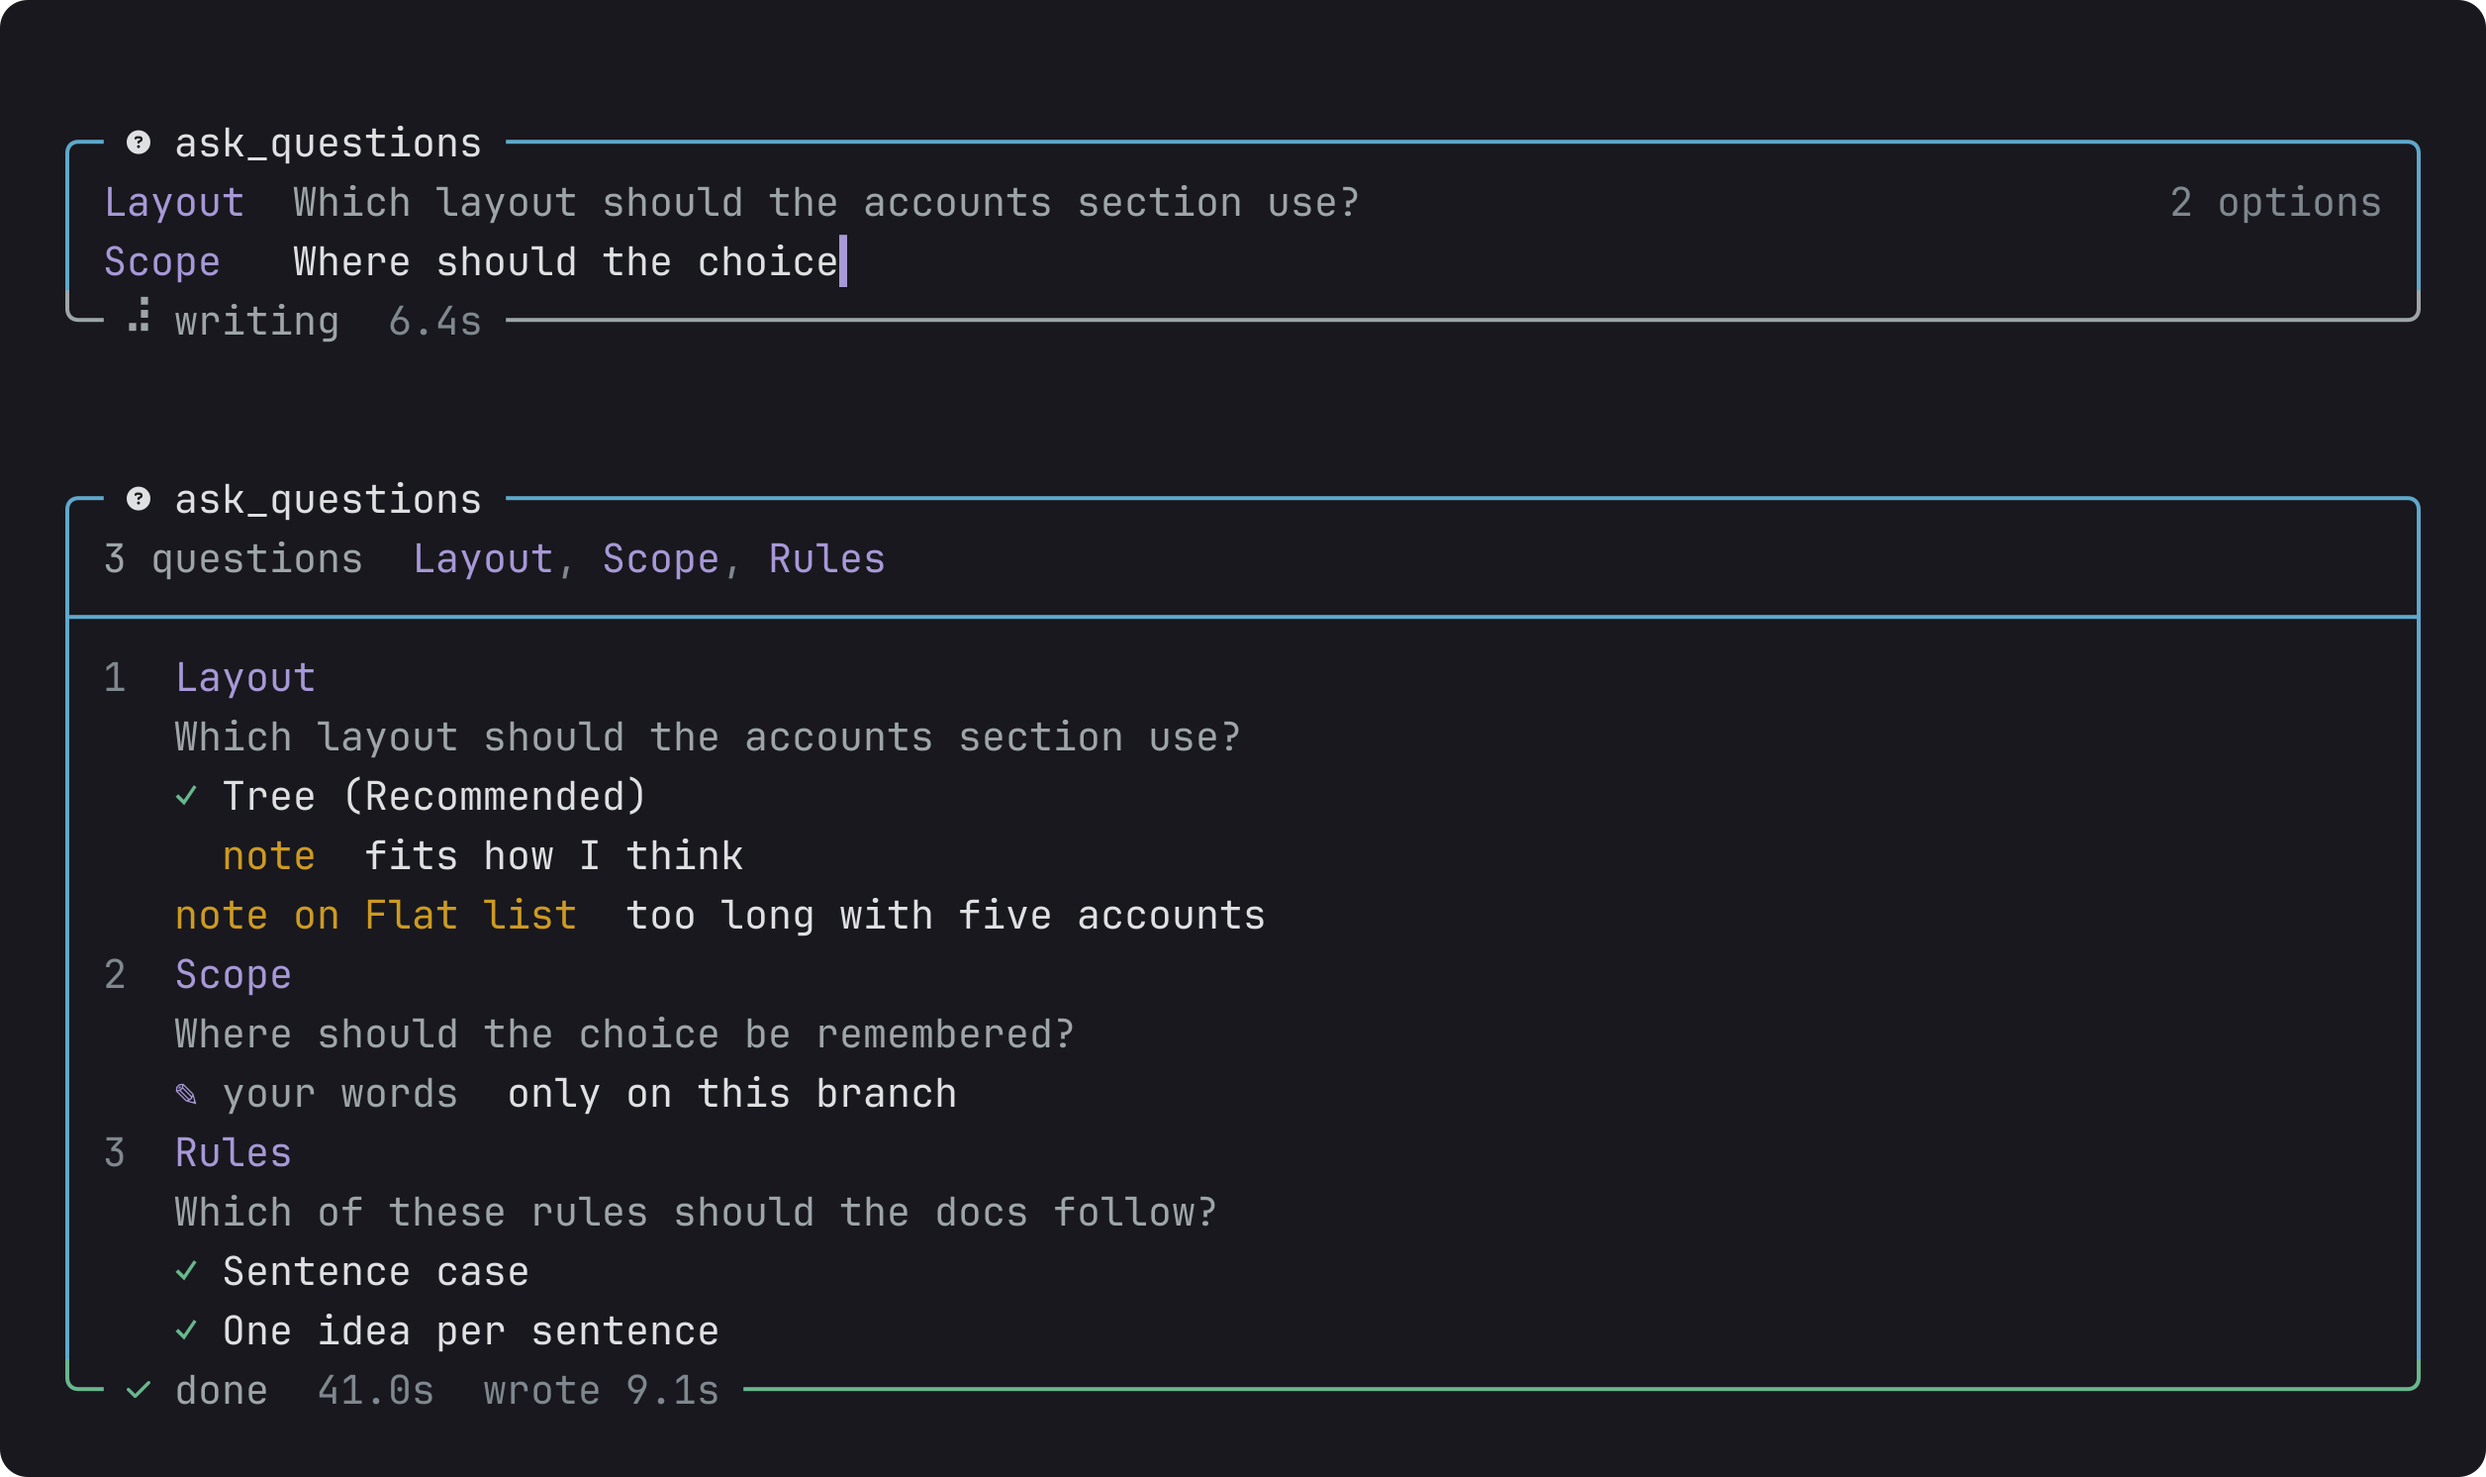
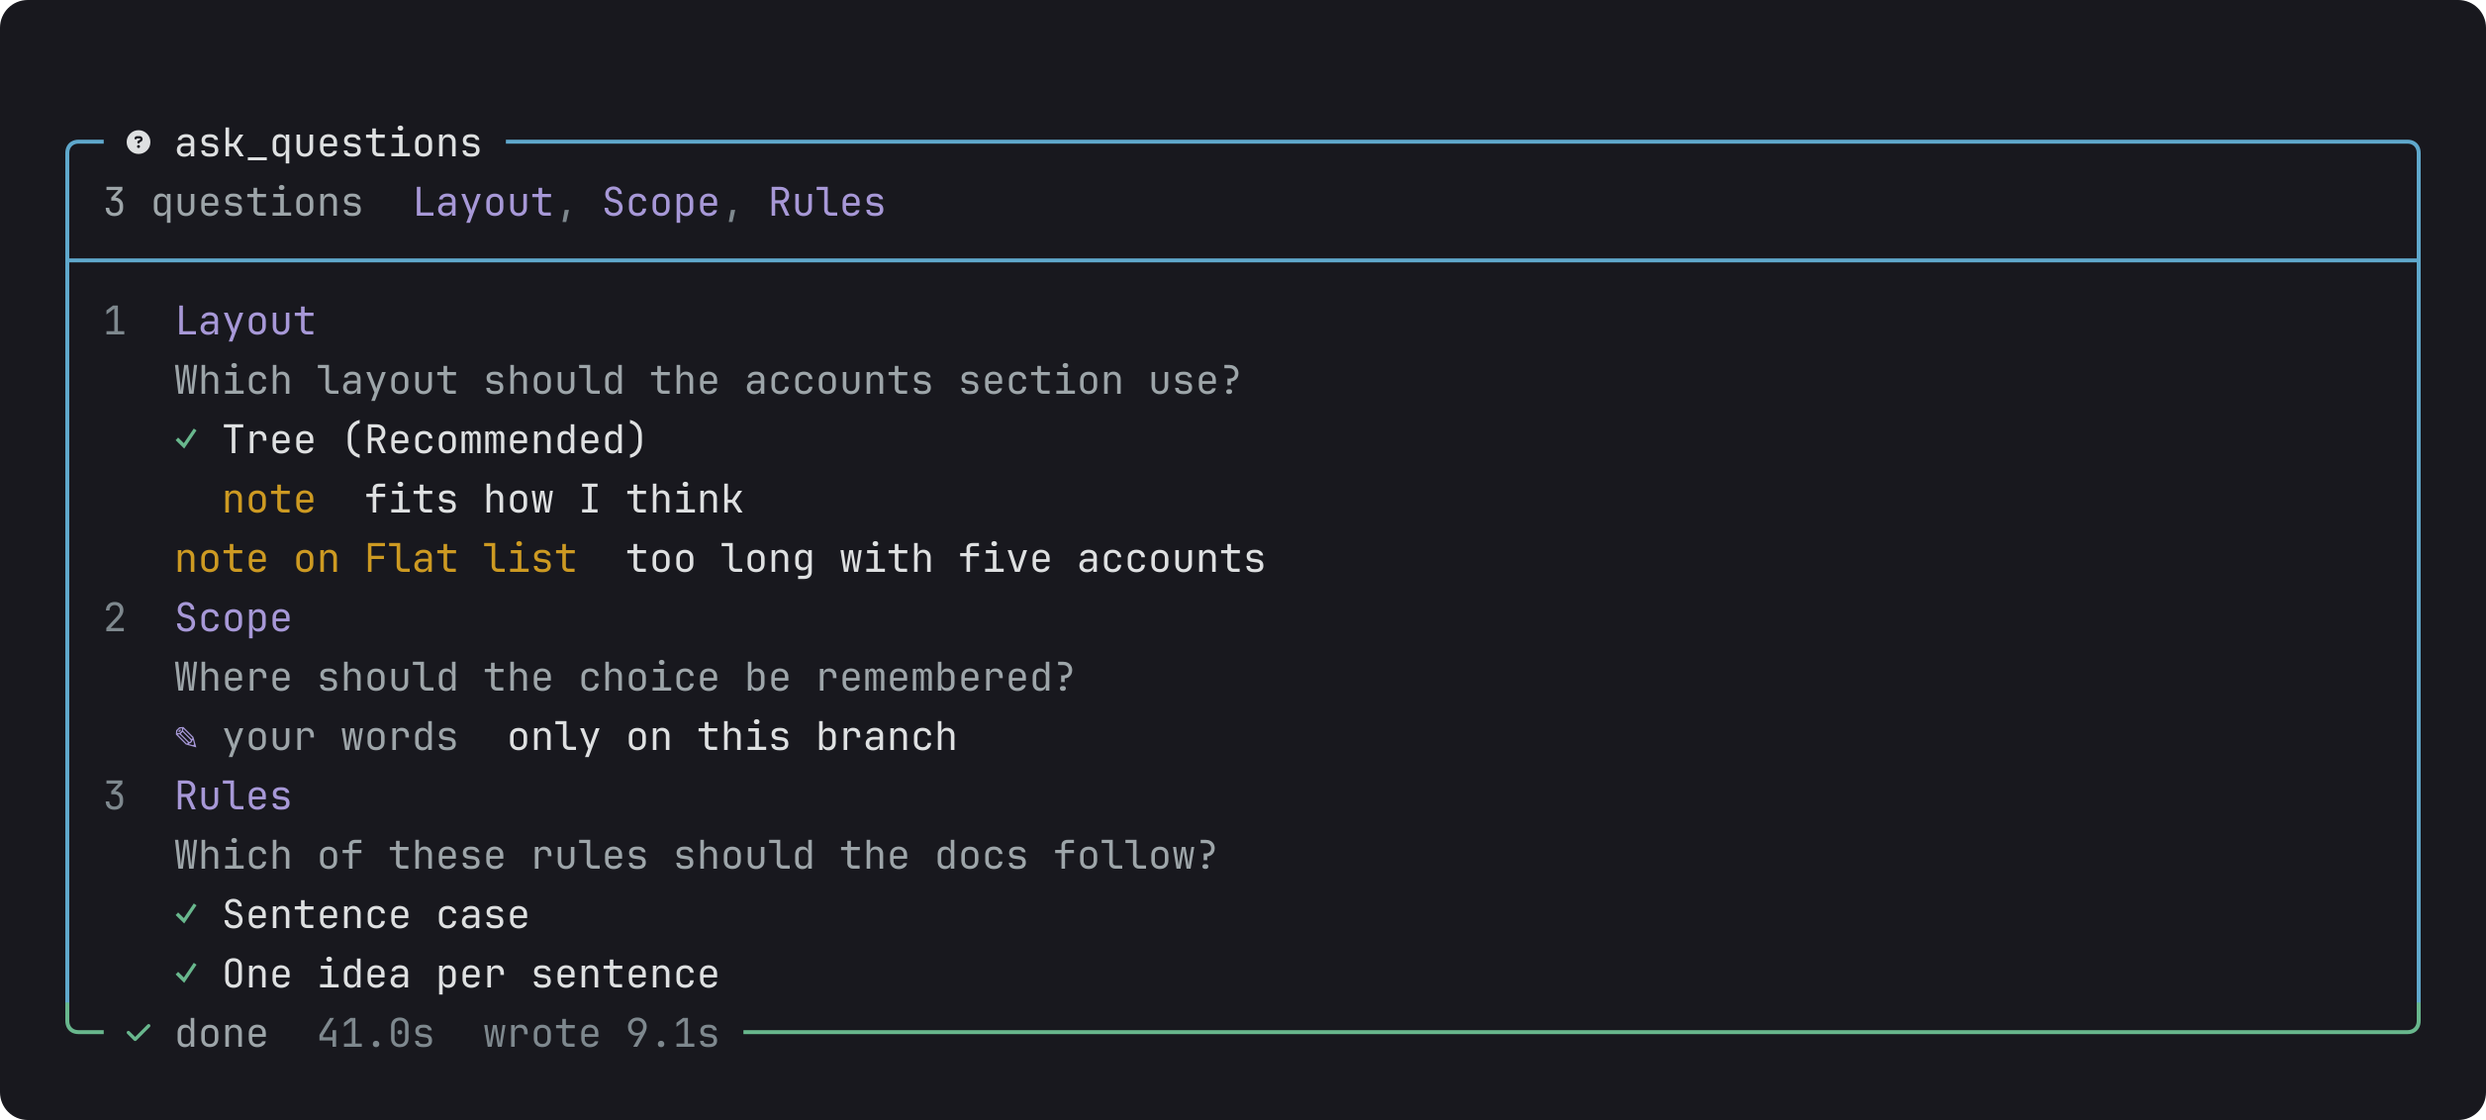
refactor(ask-questions): drop the dead adopted flag and tidy the live dialog's ticker

diff --git a/packages/ask-questions/src/index.ts b/packages/ask-questions/src/index.ts
@@ -83,13 +83,32 @@ export const questions = defineFeature({
 				return shown(ctx, asked, early);
 			}, signal);
 
-		// A call that ends without running its tool takes its dialog with it.
+		// The tool takes a dialog out of `live` when it runs, so what is left here belongs to a
+		// call that will not run, and closes as cancelled.
 		const closeLive = (id?: string) => {
 			for (const [key, ask] of live) {
 				if (id !== undefined && key !== id) continue;
 				live.delete(key);
-				if (!ask.adopted) ask.close();
+				ask.close();
 			}
+		};
+
+		const followStream = (id: string, args: unknown, writing: boolean, ctx: ExtensionContext) => {
+			const streamed = streamedQuestions(args);
+			const open = live.get(id);
+			if (open !== undefined) {
+				// Questions the tool would refuse, or arguments that never parsed, close the dialog.
+				if (!writing && problemWith({ questions: streamed }) !== undefined) closeLive(id);
+				else open.update(streamed, writing);
+				return;
+			}
+			if (!writing || !canDraw(ctx) || !opensEarly(streamed)) return;
+			const early = new LiveAsk(streamed);
+			live.set(id, early);
+			early.answer = showForModel(ctx, streamed, early.stop.signal, early).catch((): AskResult => ({
+				answers: [],
+				cancelled: true,
+			}));
 		};
 
 		scope.on("message_update", (event, ctx) => {
@@ -105,33 +124,16 @@ export const questions = defineFeature({
 					? update.toolCall
 					: update.partial.content[update.contentIndex];
 			if (call?.type !== "toolCall" || call.name !== TOOL_NAME) return;
-			// Whatever the model streams, a bad delta closes this dialog and never reaches the turn.
+			// An error while following the stream closes this dialog and does not reach pi's turn.
 			try {
 				followStream(call.id, call.arguments, update.type !== "toolcall_end", ctx);
 			} catch {
 				closeLive(call.id);
 			}
 		});
-		const followStream = (id: string, args: unknown, writing: boolean, ctx: ExtensionContext) => {
-			const streamed = streamedQuestions(args);
-			const open = live.get(id);
-			if (open !== undefined) {
-				// Questions the tool would refuse, or arguments that never parsed, are not left open.
-				if (!writing && problemWith({ questions: streamed }) !== undefined) closeLive(id);
-				else open.update(streamed, writing);
-				return;
-			}
-			if (!writing || !canDraw(ctx) || !opensEarly(streamed)) return;
-			const early = new LiveAsk(streamed);
-			live.set(id, early);
-			early.answer = showForModel(ctx, streamed, early.stop.signal, early).catch((): AskResult => ({
-				answers: [],
-				cancelled: true,
-			}));
-		};
 		scope.on("tool_execution_end", (event) => closeLive(event.toolCallId));
-		// Every turn ends here, also one the model never finished: an abort, an error, or a reply cut
-		// at the token limit. The tool has taken every call it ran by now, so what is left is closed.
+		// Every turn ends with this event, also one the model never finished: an abort, an error, or a
+		// reply cut at the token limit. By then the tool has run every call it was going to run.
 		scope.on("turn_end", () => closeLive());
 
 		scope.onSessionStart((ctx) => {
@@ -177,7 +179,6 @@ export const questions = defineFeature({
 			execute: (id, params, signal, _onUpdate, ctx) => {
 				const early = live.get(id);
 				if (early === undefined) return askTool(ctx, normalizeParams(params), showForModel, signal);
-				early.adopted = true;
 				live.delete(id);
 				return answerLive(early, normalizeParams(params), signal);
 			},

diff --git a/packages/ask-questions/src/ui/dialog.ts b/packages/ask-questions/src/ui/dialog.ts
@@ -195,10 +195,11 @@ export class QuestionDialog implements Component, Focusable {
 
 	/** Redraws every frame while the model writes, and stops once it is done or you are. */
 	private animate(): void {
-		if (this.writing && !this.done) {
-			this.ticks ??= setInterval(() => this.tui.requestRender(), FRAME_MS);
-			this.ticks.unref?.();
-		} else this.stopTicks();
+		if (!this.writing || this.done) return this.stopTicks();
+		if (this.ticks !== undefined) return;
+		this.ticks = setInterval(() => this.tui.requestRender(), FRAME_MS);
+		// A dialog left open, as in a test or a docs picture, does not keep the process alive.
+		this.ticks.unref?.();
 	}
 
 	private stopTicks(): void {
@@ -206,13 +207,13 @@ export class QuestionDialog implements Component, Focusable {
 		this.ticks = undefined;
 	}
 
-	/** The spinner of the question being written, one frame of it. */
+	/** The frame of the spinner on the question being written. */
 	private spinner(): string {
 		const frames = SPIN.braille;
 		return frames[Math.floor(this.now() / FRAME_MS) % frames.length] ?? frames[0];
 	}
 
-	/** The cursor where words arrive, or a blank of its width half the time. */
+	/** The cursor where the words arrive, shown half the time, with a blank of its width otherwise. */
 	private cursor(): string {
 		return Math.floor(this.now() / BLINK_MS) % 2 === 0 ? GLYPH.cursor : " ";
 	}
@@ -872,8 +873,11 @@ export class QuestionDialog implements Component, Focusable {
 			if (!this.writing) keys.push(["enter", "submit"]);
 			keys.push(["esc", "cancel"]);
 		} else if (this.isLive(this.question)) {
-			if (tabs) keys.push([`${GLYPH.left}${GLYPH.right}`, "question"]);
-			keys.push([this.spinner(), "being written"], ["esc", "cancel"]);
+			keys.push(
+				[`${GLYPH.left}${GLYPH.right}`, "question"],
+				[this.spinner(), "being written"],
+				["esc", "cancel"],
+			);
 		} else if (this.noting) {
 			keys.push(
 				["type", "a note"],

diff --git a/packages/ask-questions/src/early.ts b/packages/ask-questions/src/early.ts
@@ -10,8 +10,6 @@ import { normalizeText } from "./validate.ts";
 export class LiveAsk {
 	questions: readonly AskQuestion[];
 	writing = true;
-	/** Whether the tool took this answer. If it did not, the call never ran and the dialog closes. */
-	adopted = false;
 	/** Leaves the queue, or the wait for your typing, when the call ends before the dialog opens. */
 	readonly stop = new AbortController();
 	answer: Promise<AskResult> = Promise.resolve({ answers: [], cancelled: true });

diff --git a/packages/ask-questions/README.md b/packages/ask-questions/README.md
@@ -27,7 +27,7 @@
 
 <p align="center">
   <img src="https://raw.githubusercontent.com/felipeadeildo/pi-harness/main/packages/ask-questions/assets/review.png" alt="The review tab: every question with its answer, before submitting." width="420">
-  <img src="https://raw.githubusercontent.com/felipeadeildo/pi-harness/main/packages/ask-questions/assets/transcript.png" alt="Two ask_questions calls in the chat. The first is still being written and lists the questions so far. The second lists each question with the picked option, a note under it, a note on an option not picked, and an answer in quotes." width="420">
+  <img src="https://raw.githubusercontent.com/felipeadeildo/pi-harness/main/packages/ask-questions/assets/transcript.png" alt="An answered ask_questions call in the chat: each question with the picked option, a note under it, a note on an option not picked, and an answer in quotes." width="420">
   <br>
   <em>Every answer on one tab before it goes, then the whole call in the chat.</em>
 </p>
@@ -40,7 +40,19 @@ The options sit on the left, one line each. The panel on the right shows the opt
 
 Several questions become tabs. `●` is where you are, `✓` is a question already answered, and `submit` turns green once every one has an answer.
 
-The dialog opens as soon as the model has written the text of the first question, without waiting for the rest of the call. The question still being written has a spinner on its tab that turns while the model writes, and a cursor blinks under its options where the next one will appear. You can read it and move through its options as they arrive, but you can't answer it yet, and its **Type something.** row shows up once its options are complete. Every earlier question is complete, so you can answer it while the next one arrives. After you answer the last complete one, the dialog moves to the question being written. `submit` stays locked until the model finishes the call. If the call never runs, the dialog closes by itself. That happens when you stop the model, when the reply ends early on an error or at the token limit, when the arguments arrive as broken JSON, or when the questions break a rule of the tool. A piece of the stream that parses to fewer questions than the one before is skipped, so a question you can see never disappears.
+The dialog opens as soon as the model has written the text of the first question, without waiting for the rest of the call. A spinner turns on the tab of the question still being written, and a cursor blinks under its options where the next option will appear. You can read that question and move through its options as they arrive, but you can't answer it yet. Its **Type something.** row shows up once its options are complete. Every earlier question is complete, so you answer it while the next one arrives. After you answer the last complete one, the dialog moves to the question being written. `submit` stays locked until the model finishes the call.
+
+<!-- docs:ask-questions/writing -->
+
+<p align="center">
+  <img src="https://raw.githubusercontent.com/felipeadeildo/pi-harness/main/packages/ask-questions/assets/writing.png" alt="The ask_questions call on one line in the chat while the model writes it, and under it the open dialog. The first question is answered. The tab of the second has a spinner and a cursor, and a cursor blinks under its only option so far." width="860">
+  <br>
+  <em>The dialog opens while the model still writes the call, so you answer the first question as the second arrives.</em>
+</p>
+
+<!-- /docs -->
+
+If the call never runs, the dialog closes as cancelled. That happens when you stop the model, when the reply ends early on an error or at the token limit, when the arguments arrive as broken JSON, or when the questions break a rule of the tool. A piece of the stream that parses to fewer questions than the one before is skipped, so a question you can see never disappears.
 
 | Key                 | Does                                                                   |
 | ------------------- | ---------------------------------------------------------------------- |
@@ -70,7 +82,7 @@ The review tab lists each question with what you said under it: `✓` before a p
 
 ## In the chat
 
-While the model writes the call and the dialog is not open yet (it waits while you type in the editor), the chat shows each question as it arrives, the last one in full with its options. Once the dialog opens, the call in the chat shrinks to one line with the headers. After you answer, the call keeps the same blocks as the review tab, and `ctrl+o` shows the questions uncut.
+Before the dialog opens, the chat shows each question as the model writes it, the last one in full with its options. You see this while you type in the editor, since the dialog waits for you to stop. Once the dialog opens, the call in the chat shrinks to one line with the headers. After you answer, the call keeps the same blocks as the review tab, and `ctrl+o` shows the questions uncut.
 
 Pi draws this dialog in the flow of the screen, like the permission dialog, so a tall one scrolls with the terminal and the chat above it stays in the scrollback. Over RPC, in an editor plugin or an ACP client, the questions go one at a time through the host's own select and input dialogs, without previews or notes. With no UI at all, the model never sees the tool.
 
